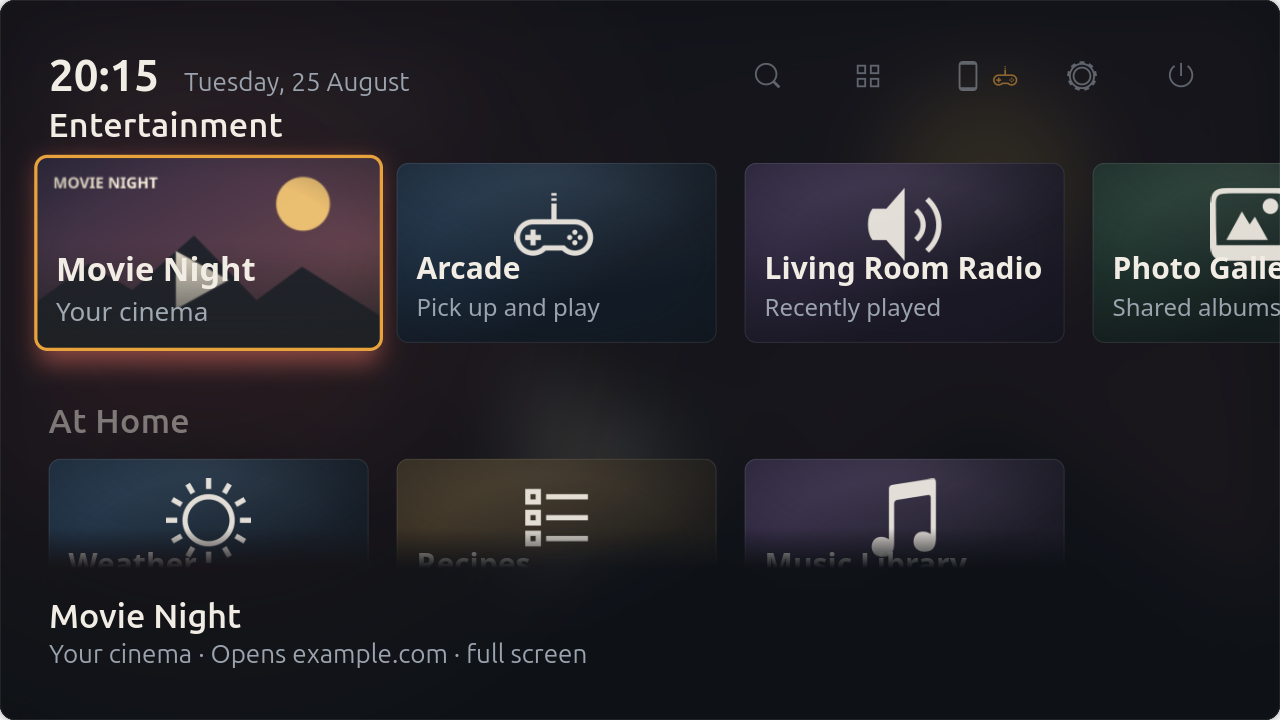
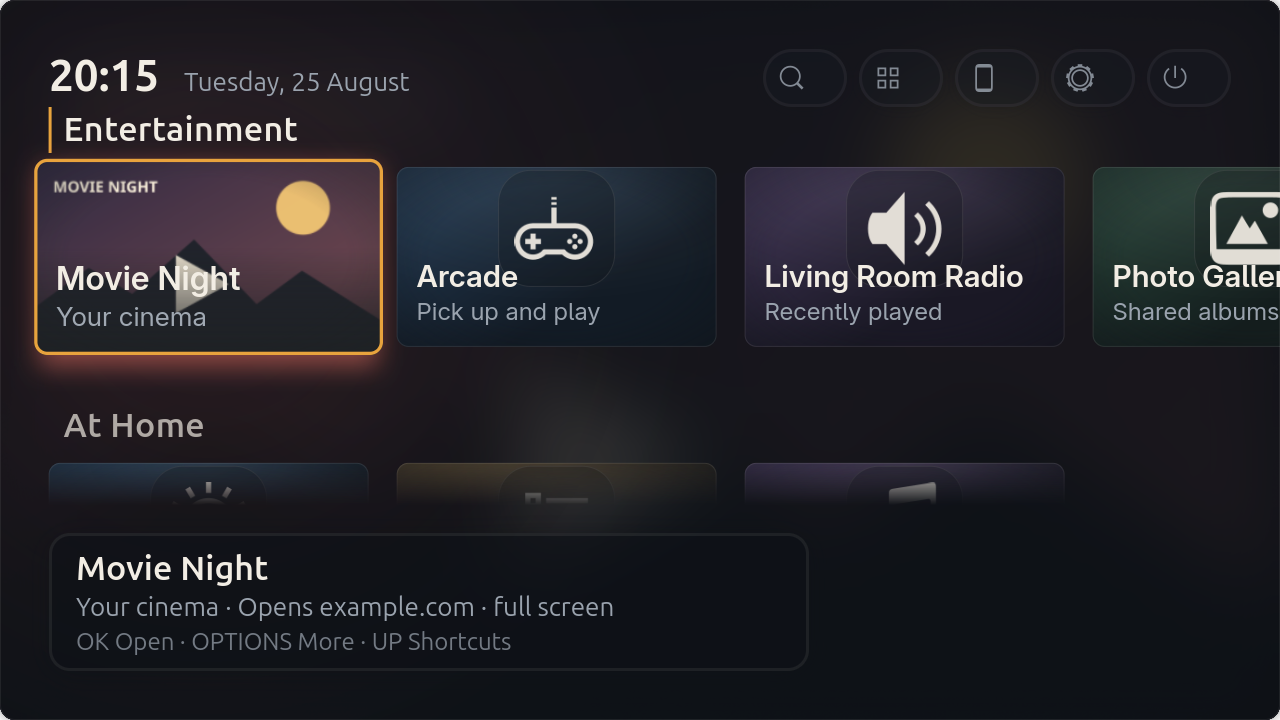
Release 0.2.7 with refreshed Home design

diff --git a/data/style/salon.css b/data/style/salon.css
@@ -25,11 +25,14 @@ window {
   font-weight: var(--weight-row-heading);
   letter-spacing: 0.01em;
   opacity: 0.68;
+  border-left: var(--focus-ring) solid transparent;
+  padding-left: var(--pad-s);
   transition: opacity 180ms ease;
 }
 
 .salon-row-heading.row-focused {
   opacity: 1;
+  border-left-color: @accent;
 }
 
 .salon-status-bar {
@@ -310,14 +313,15 @@ toast > label {
    unless they are on screen. Dim until hovered, so they read as
    available without competing with the tiles for attention. */
 .salon-status-button {
-  background-color: transparent;
-  border: none;
+  background-color: alpha(@surface-1, 0.46);
+  border: var(--focus-ring) solid alpha(@text-primary, 0.06);
   outline: none;
   border-radius: var(--radius-pill);
   padding: var(--pad-s);
   color: @text-secondary;
-  opacity: 0.55;
-  transition: opacity 120ms ease, background-color 120ms ease;
+  opacity: 0.82;
+  box-shadow: 0 var(--focus-ring) var(--pad-s) alpha(@surface-0, 0.24);
+  transition: opacity 160ms ease, background-color 160ms ease;
 }
 
 .salon-status-button:hover {
@@ -471,6 +475,14 @@ toast > label {
   color: @text-primary;
   font-size: var(--font-row-heading);
   font-weight: var(--weight-row-heading);
+}
+
+.salon-detail-bar {
+  background-color: alpha(@surface-0, 0.66);
+  border: var(--focus-ring) solid alpha(@text-primary, 0.07);
+  border-radius: var(--radius-lg);
+  box-shadow: 0 var(--focus-ring) var(--pad-m) alpha(@surface-0, 0.34);
+  padding: var(--pad-s) var(--pad-m);
 }
 
 .salon-detail-body {

diff --git a/salon/ui/backdrop.py b/salon/ui/backdrop.py
@@ -25,9 +25,11 @@ from salon.ui.backdrop_renderer import (  # noqa: E402
     same_color,
 )
 
-_FADE_MS = 220
-_DEBOUNCE_MS = 150
+_FADE_MS = 280
+_DEBOUNCE_MS = 80
 _WALLPAPER_SUFFIXES = (".jpg", ".jpeg", ".png", ".webp", ".avif")
+_DEFAULT_WALLPAPER = "resource:///io/github/alexydaher/Salon/backgrounds/salon-ambient.png"
+_DEFAULT_WALLPAPER_DIM = 0.38
 
 
 class Backdrop(Gtk.Widget, BackdropRenderer):
@@ -78,10 +80,17 @@ class Backdrop(Gtk.Widget, BackdropRenderer):
         alphabetical because a slideshow that always opens on the same
         picture is not one.
         """
-        self._wallpaper_dim = max(0.0, min(1.0, dim))
-        if source != self._wallpaper_source:
-            self._wallpaper_source = source
-            self._wallpaper = self._load(source)
+        # Empty is the designed Salon ambience. A single dash is the
+        # deliberate opt-out for people who want the palette's flat surface.
+        effective_source = _DEFAULT_WALLPAPER if not source else source
+        if source == "-":
+            effective_source = ""
+        self._wallpaper_dim = (
+            _DEFAULT_WALLPAPER_DIM if not source else max(0.0, min(1.0, dim))
+        )
+        if effective_source != self._wallpaper_source:
+            self._wallpaper_source = effective_source
+            self._wallpaper = self._load(effective_source)
         self.queue_draw()
 
     def next_wallpaper(self) -> None:
@@ -92,6 +101,11 @@ class Backdrop(Gtk.Widget, BackdropRenderer):
     def _load(self, source: str) -> Gdk.Texture | None:
         if not source:
             return None
+        if source.startswith("resource://"):
+            try:
+                return Gdk.Texture.new_from_resource(source.removeprefix("resource://"))
+            except GLib.Error:
+                return None
         path = Path(os.path.expanduser(source))
         if path.is_dir():
             try:

diff --git a/salon/ui/tile_artwork_renderer.py b/salon/ui/tile_artwork_renderer.py
@@ -19,6 +19,7 @@ from salon.ui.tile_geometry import (  # noqa: E402
     _mix,
     _point,
     _rect,
+    _rounded,
     _stops,
     _with_alpha,
     font_description,
@@ -117,12 +118,38 @@ class TileArtworkRenderer:
         )
 
         icon_box = self._icon_box(rect)
+        self.snapshot_icon_well(snapshot, icon_box)
         if self._artwork.icon_texture is not None:
             self.snapshot_icon_texture(snapshot, icon_box)
         elif self._artwork.icon is not None:
             self.snapshot_icon(snapshot, icon_box)
         else:
             self.snapshot_initial(snapshot, icon_box)
+
+    def snapshot_icon_well(self, snapshot: Gtk.Snapshot, icon_box: Graphene.Rect) -> None:
+        """Give unrelated application icons one shared visual home.
+
+        Desktop and web icons arrive with wildly different silhouettes and
+        intrinsic padding. This translucent medallion makes them read as one
+        system without redrawing or masking the original artwork.
+        """
+        inset = icon_box.get_width() * -0.20
+        well = _rect(
+            icon_box.get_x() + inset,
+            icon_box.get_y() + inset,
+            icon_box.get_width() - 2 * inset,
+            icon_box.get_height() - 2 * inset,
+        )
+        rounded = _rounded(well, well.get_width() * 0.28)
+        snapshot.push_rounded_clip(rounded)
+        snapshot.append_color(_with_alpha(theme.color("surface-0"), 0.28), well)
+        snapshot.pop()
+        edge = max(1.0, self._scale.du(1.0))
+        snapshot.append_border(
+            rounded,
+            [edge] * 4,
+            [_with_alpha(theme.color("text-primary"), 0.10)] * 4,
+        )
 
     def _icon_box(self, rect: Graphene.Rect) -> Graphene.Rect:
         """Centred in the space above the title band, not in the tile — an

diff --git a/tests/test_release_preparation.py b/tests/test_release_preparation.py
@@ -21,29 +21,29 @@ def run_script(*arguments: str) -> subprocess.CompletedProcess[str]:
 def test_release_versions_are_consistent() -> None:
     result = run_script()
     assert result.returncode == 0, result.stderr
-    assert "Salon 0.2.6" in result.stdout
+    assert "Salon 0.2.7" in result.stdout
 
 
 def test_debian_changelog_matches_project_version() -> None:
     changelog = (ROOT / "debian" / "changelog").read_text()
-    assert changelog.startswith("salon (0.2.6-1) ")
+    assert changelog.startswith("salon (0.2.7-1) ")
 
 
 def test_release_tag_must_match_project_version() -> None:
     result = run_script("--tag", "v9.9.9")
     assert result.returncode == 1
-    assert "expected 'v0.2.6'" in result.stderr
+    assert "expected 'v0.2.7'" in result.stderr
 
 
 def test_prepared_manifest_pins_the_release_commit(tmp_path: Path) -> None:
     output = tmp_path / "manifest.yaml"
     commit = "0123456789abcdef0123456789abcdef01234567"
     result = run_script(
-        "--tag", "v0.2.6", "--commit", commit, "--output", str(output)
+        "--tag", "v0.2.7", "--commit", commit, "--output", str(output)
     )
     assert result.returncode == 0, result.stderr
 
     manifest = output.read_text()
     source = "url: https://github.com/alexydaher/salon.git"
     salon_source = manifest[manifest.index(source) :]
-    assert f"tag: v0.2.6\n        commit: {commit}\n" in salon_source
+    assert f"tag: v0.2.7\n        commit: {commit}\n" in salon_source

diff --git a/salon/ui/detailbar.py b/salon/ui/detailbar.py
@@ -77,7 +77,7 @@ class DetailBar(Gtk.Box):
         super().__init__(orientation=Gtk.Orientation.VERTICAL)
         self.add_css_class("salon-detail-bar")
         self.set_valign(Gtk.Align.END)
-        self.set_halign(Gtk.Align.FILL)
+        self.set_halign(Gtk.Align.START)
         self.set_can_target(False)
         # Announced by the container that owns the cursor instead: this is a
         # readout of the selection, and a screen reader that read it as well
@@ -116,13 +116,14 @@ class DetailBar(Gtk.Box):
         self.set_margin_start(margin)
         self.set_margin_end(margin)
         self.set_margin_bottom(margin)
+        self.set_size_request(scale.px(760.0), -1)
         # Clear air above the strip, and deliberately part of the widget's
         # own height: HomeView reserves whatever this measures, so keeping
         # the gap here means there is exactly one place that decides how
         # much room the strip takes. Without it the last row's title and
         # the strip's title touch, which reads as one broken paragraph.
         self.set_margin_top(scale.px(28.0))
-        self.set_spacing(scale.px(2.0))
+        self.set_spacing(scale.px(3.0))
 
     def set_tile(self, tile: Tile | None) -> None:
         self._tile = tile

diff --git a/salon/ui/settings/appearance_panel.py b/salon/ui/settings/appearance_panel.py
@@ -126,9 +126,9 @@ def appearance_panel(context: SettingsContext, settings: Gio.Settings) -> Panel:
             ),
             TextRow(
                 "Background image",
-                lambda: settings.get_string("wallpaper-path") or "None",
+                lambda: settings.get_string("wallpaper-path") or "Salon ambient",
                 lambda: _edit_wallpaper(context, settings),
-                detail="A picture, or a folder of them to rotate. Leave empty for none.",
+                detail="A picture, a rotating folder, or empty for Salon ambient. Use - for none.",
             ),
             ActionRow(
                 "Choose background image…",
@@ -208,7 +208,9 @@ def _choose_wallpaper(context: SettingsContext, settings: Gio.Settings, *, folde
 def _check_wallpaper(context: SettingsContext, settings: Gio.Settings) -> None:
     value = settings.get_string("wallpaper-path").strip()
     if not value:
-        context.toast("No background image is configured.")
+        context.toast("Salon ambient background is active.")
+    elif value == "-":
+        context.toast("The background image is disabled.")
     elif Path(value).exists():
         context.toast("Background path is available.")
     else:

diff --git a/salon/ui/status_actions.py b/salon/ui/status_actions.py
@@ -129,17 +129,17 @@ class StatusBar(Gtk.Box):
         margin = scale.px(
             tokens.REFERENCE_VIEWPORT_HEIGHT_PX * tokens.SAFE_AREA_DEFAULT_PERCENT / 100.0
         )
-        self.set_spacing(scale.px(24.0))
+        self.set_spacing(scale.px(12.0))
         self.set_margin_top(margin)
         self.set_margin_end(margin)
-        size = scale.px(52.0)
+        size = scale.px(54.0)
         self._button_height = size
         for button in self._buttons:
             button.set_size_request(-1, size)
         for index, box in enumerate(self._button_boxes):
             box.set_spacing(scale.px(10.0))
             box.set_size_request(size, -1)
-            self._button_images[index].set_pixel_size(scale.px(30.0))
+            self._button_images[index].set_pixel_size(scale.px(28.0))
             badge_size = scale.px(10.0)
             self._connection_badges[index].set_size_request(badge_size, badge_size)
         self._controller_icon.set_pixel_size(scale.px(26.0))

diff --git a/README.md b/README.md
@@ -33,14 +33,14 @@ Flatpak updates.
 If you prefer a standalone download, open the [latest release][latest-release]
 and download the bundle for your computer:
 
-* `Salon-v0.2.6-x86_64.flatpak` for most Intel and AMD PCs.
-* `Salon-v0.2.6-aarch64.flatpak` for ARM64 computers.
+* `Salon-v0.2.7-x86_64.flatpak` for most Intel and AMD PCs.
+* `Salon-v0.2.7-aarch64.flatpak` for ARM64 computers.
 
 Open the downloaded file with your software installer, or install it from a
 terminal:
 
 ```sh
-flatpak install --user ~/Downloads/Salon-v0.2.6-x86_64.flatpak
+flatpak install --user ~/Downloads/Salon-v0.2.7-x86_64.flatpak
 ```
 
 Use the `aarch64` filename instead on ARM64. If you are unsure which one you
@@ -59,7 +59,7 @@ Standalone bundles do not update automatically. To upgrade one, download the
 bundle from the next release and install it over the existing copy:
 
 ```sh
-flatpak install --user --or-update ~/Downloads/Salon-v0.2.6-x86_64.flatpak
+flatpak install --user --or-update ~/Downloads/Salon-v0.2.7-x86_64.flatpak
 ```
 
 Your settings and catalogue are preserved. To uninstall Salon and remove its
@@ -74,7 +74,7 @@ Each release also includes `SHA256SUMS` if you want to verify the download.
 Run the following from the directory containing both files:
 
 ```sh
-grep 'Salon-v0.2.6-x86_64.flatpak$' SHA256SUMS | sha256sum --check -
+grep 'Salon-v0.2.7-x86_64.flatpak$' SHA256SUMS | sha256sum --check -
 ```
 
 Change the filename to the ARM64 bundle when appropriate.
@@ -82,12 +82,12 @@ Change the filename to the ARM64 bundle when appropriate.
 ### Native Debian package
 
 The native package enables Salon's login-screen sessions, host power actions,
-and the rest of its GNOME integration. Download `salon_0.2.6-1_all.deb` from
+and the rest of its GNOME integration. Download `salon_0.2.7-1_all.deb` from
 the [latest release][latest-release], then install it with APT so dependencies
 are resolved automatically:
 
 ```sh
-sudo apt install ~/Downloads/salon_0.2.6-1_all.deb
+sudo apt install ~/Downloads/salon_0.2.7-1_all.deb
 ```
 
 The package is architecture-independent and works on both AMD64 and ARM64,
@@ -390,11 +390,11 @@ The capture uses a fixed clock, local artwork, isolated settings/cache
 directories, and real in-process GTK rendering at 1280×720.
 
 A tag matching that checked version triggers the release build. For example,
-after the 0.2.6 changes have been committed and pushed:
+after the 0.2.7 changes have been committed and pushed:
 
 ```sh
-git tag -a v0.2.6 -m "Salon 0.2.6"
-git push origin v0.2.6
+git tag -a v0.2.7 -m "Salon 0.2.7"
+git push origin v0.2.7
 ```
 
 GitHub Actions builds x86-64 and ARM64 Flatpak bundles and a native Debian

diff --git a/CHANGELOG.md b/CHANGELOG.md
@@ -8,6 +8,20 @@ Notable changes per release. Dates are ISO. This project follows
 
 ## Unreleased
 
+## 0.2.7 — 2026-08-25
+
+### A more cohesive Home screen
+
+* Salon now ships a restrained ambient background with subtle texture and
+  edge lighting, while custom wallpapers and a flat-background opt-out remain
+  available.
+* Generated application tiles place icons in a shared translucent medallion,
+  giving unrelated desktop, web and symbolic icons one visual language.
+* Shortcut buttons are clearer and more cohesive, the focused row has an
+  accent marker, and selected-tile context sits in a compact glass card.
+* Background feedback begins sooner and settles more smoothly as focus moves
+  between tiles.
+
 ## 0.2.6 — 2026-08-25
 
 ### Safer and easier to control

diff --git a/docs/release-checklist.md b/docs/release-checklist.md
@@ -1,6 +1,6 @@
 # Salon physical release checklist
 
-Release candidate: `0.2.6`
+Release candidate: `0.2.7`
 Checklist updated: 2026-08-25  
 Status: **not physically verified**
 
